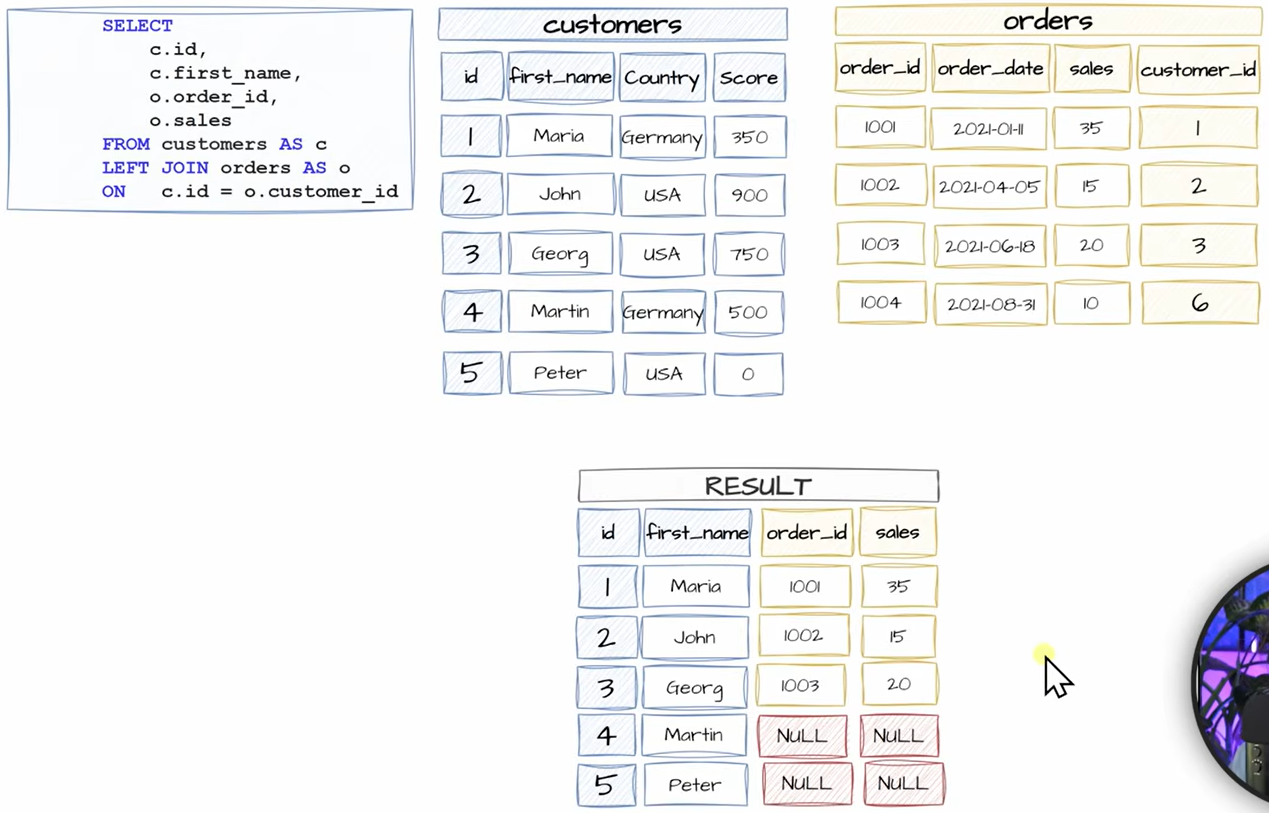
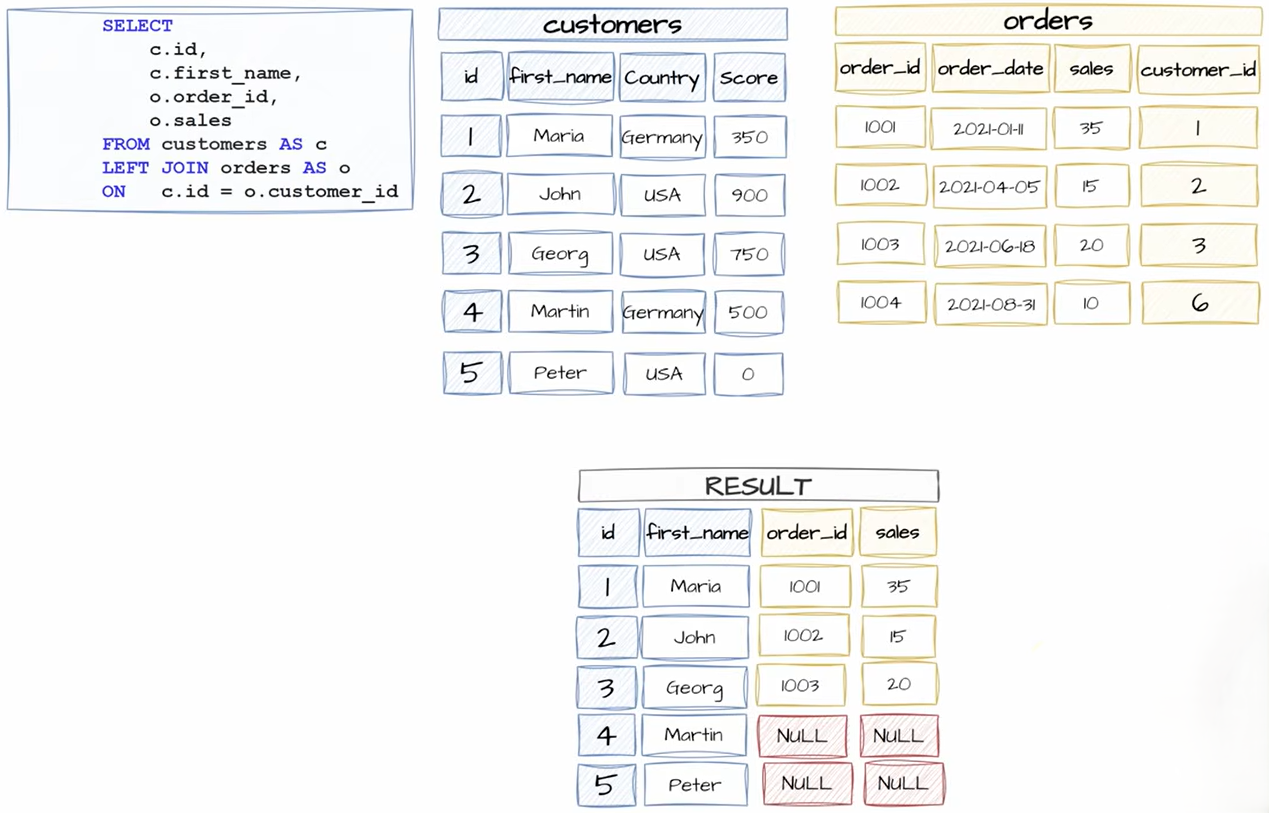
NULL-FUNCTIONS added

Changed region(s): [[0.922, 0.6765, 1.0, 1.0], [0.7991, 0.7688, 0.8605, 0.861]]

diff --git a/Functions/NULL-FUNCTIONS/Readme.md b/Functions/NULL-FUNCTIONS/Readme.md
@@ -462,3 +462,77 @@ WHERE commission IS NOT NULL;
 | IS NULL     | Find NULL values     | All        |
 | IS NOT NULL | Find non-NULL values | All        |
 
+
+---
+
+<br>
+<br>
+
+joins with 
+
+In joins, `NULL` needs special attention because:
+
+```sql
+NULL = NULL
+```
+
+is **not TRUE**. It evaluates to **UNKNOWN**.
+
+**Example**
+
+Table A:
+
+| id   | name |
+| ---- | ---- |
+| 1    | Ali  |
+| NULL | Sara |
+
+Table B:
+
+| id   | city    |
+| ---- | ------- |
+| 1    | Lahore  |
+| NULL | Karachi |
+
+```sql
+SELECT *
+FROM A
+JOIN B ON A.id = B.id;
+```
+
+Result:
+
+| id  | name | city   |
+| --- | ---- | ------ |
+| 1   | Ali  | Lahore |
+
+The rows with `NULL` do **not** match.
+
+---
+
+**What to do?**
+
+1. Ignore NULLs (most common)
+
+Just use the normal join:
+
+```sql
+ON A.id = B.id
+```
+
+2. Match NULLs explicitly
+
+```sql
+ON A.id = B.id
+OR (A.id IS NULL AND B.id IS NULL)
+```
+
+3. Use a NULL replacement value
+
+```sql
+ON COALESCE(A.id, 0) = COALESCE(B.id, 0)
+```
+
+Only do this if `0` (or another value) cannot occur as a real ID.
+
+---
